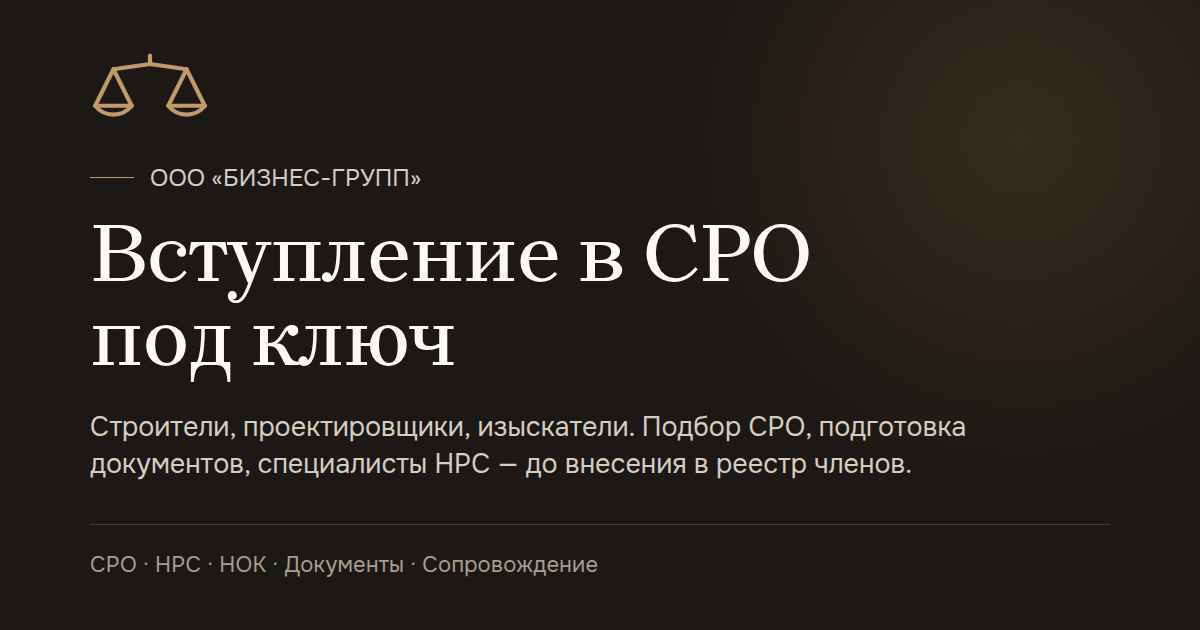
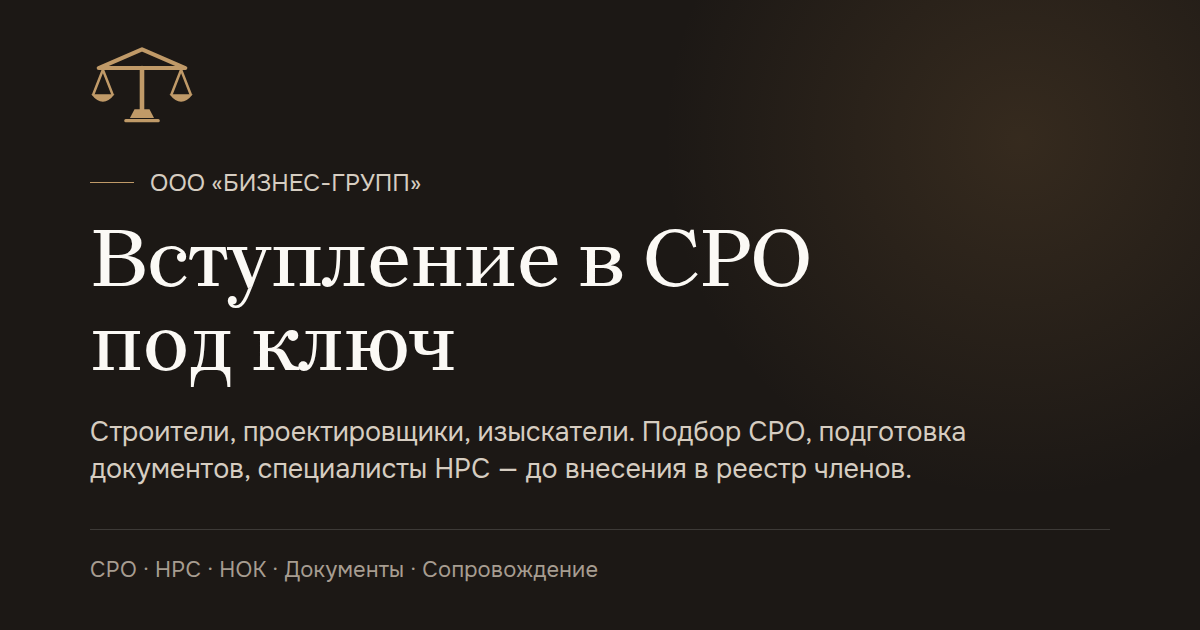
sro-site: знак — весы под фронтоном; опись документов подсвечивается
- Новый знак компании (выбор заказчика из четырёх вариантов): коромысло
  весов — треугольник фронтона, закон и стройка в одном знаке. Шапка,
  подвал, «О нас», 404, значок вкладки, иконка iOS и og.png.
- Раздел «Документы»: строка описи подсвечивается тёплым листом и латунным
  номером — при наведении на компьютере, при прохождении середины экрана
  на телефоне. Ссылкой не является.
- Висячие предлоги в тексте раздела.

Проверки: test-site.mjs 907/0, test-hero-contrast.mjs 235 замеров, 0 ниже нормы.

Claude-Session: https://claude.ai/code/session_01Jy1HN4j6vKaVcYcrR4jjs7

diff --git a/sro-site/src/components/Documents.tsx b/sro-site/src/components/Documents.tsx
@@ -1,4 +1,5 @@
 import { IMAGES } from '../content/images'
+import { nbsp } from '../lib/typo'
 import { ButtonLink } from './ui/Button'
 import { Figure } from './ui/Figure'
 import { Reveal } from './ui/Reveal'
@@ -22,8 +23,9 @@ export function Documents() {
           <SectionHeading eyebrow="Документы" title="Подготовлю пакет документов для вступления в СРО" />
           <Reveal delay={120}>
             <p className="mt-7 text-lg leading-relaxed text-neutral-600">
-              Соберу комплект под требования конкретной СРО и проверю каждый документ до
-              подачи — чтобы снизить риск замечаний и возвратов.
+              {nbsp(
+                'Соберу комплект под требования конкретной СРО и проверю каждый документ до подачи — чтобы снизить риск замечаний и возвратов.',
+              )}
             </p>
             <ButtonLink href="#contacts" size="lg" arrow className="mt-9">
               Проверить мои документы
@@ -33,21 +35,24 @@ export function Documents() {
         </div>
         {/* Перечень — строками с тонкими линейками, как опись в деле, а не
             галочками в карточке: галочки означают «сделано», а это список
-            того, что войдёт в пакет. */}
+            того, что войдёт в пакет.
+            Строка подсвечивается (.doc-row в index.css), но это не ссылка:
+            на компьютере — при наведении, на телефоне — когда проходит
+            середину экрана, ведь наведения там нет. */}
         <div className="lg:pt-24">
           <Reveal>
             <p className="text-sm text-neutral-600">Что войдёт в пакет</p>
           </Reveal>
           <ol className="mt-5 border-t border-neutral-300">
             {DOCUMENTS.map((doc, index) => (
-              <li key={doc.title} className="border-b border-neutral-300">
+              <li key={doc.title} className="doc-row border-b border-neutral-300">
                 <Reveal delay={index * 60} className="grid grid-cols-[2.5rem_minmax(0,1fr)] gap-2 py-5">
-                  <span className="pt-0.5 text-sm tabular-nums text-neutral-500">
+                  <span className="doc-num pt-0.5 text-sm tabular-nums text-neutral-500">
                     {String(index + 1).padStart(2, '0')}
                   </span>
-                  <p className="text-neutral-950">
+                  <p className="doc-text text-neutral-950">
                     <span className="font-medium">{doc.title}</span>
-                    <span className="text-neutral-600"> — {doc.text}</span>
+                    <span className="text-neutral-600"> — {nbsp(doc.text)}</span>
                   </p>
                 </Reveal>
               </li>

diff --git a/sro-site/src/components/illustrations.tsx b/sro-site/src/components/illustrations.tsx
@@ -6,33 +6,34 @@
 // истории git, если оформление вернётся к линейной графике.
 type Props = { className?: string; 'aria-hidden'?: boolean | 'true' | 'false' }
 
-// Знак в шапке: весы Фемиды. Пропорции сняты с гравюры Раймонди (исходник —
-// assets-src/themis-source.jpg; на сайте гравюры с 24.09.2026 нет) (размах коромысла принят за 1: чаша 0,50, подвес 0,48,
-// подъём центра 0,07) — но не обводка: штрих гравюры составляет около 1%
-// ширины объекта, а значку на 20-24px нужно примерно 5%, поэтому линии здесь
-// собственные. Пропорция бокса 46x26 — родная для весов, отсюда и широкий
-// плоский силуэт.
+// Знак компании: весы под фронтоном (с 25.09.2026, выбор заказчика из четырёх
+// вариантов). Коромысло весов — треугольник фронтона: это и фронтон здания
+// суда, и кровля дома, то есть закон и стройка — ровно то, чем занимается
+// компания. Толстое и тонкое, как у гравюры: фронтон, колонна и чаши плотные,
+// подвесы тоньше. Толщины подобраны под высоту 24–32px: тоньше 1,4 подвесы
+// на такой высоте пропадают.
+//
+// Те же координаты — в public/favicon.svg, public/404.html
+// и scripts/build-og.mjs: меняете знак — меняйте во всех четырёх.
+// Прежний знак (весы без колонны, viewBox 0 0 46 26) — в истории git.
 export function ScalesMark({ className = '' }: Props) {
   return (
     <svg
       className={className}
       aria-hidden="true"
       xmlns="http://www.w3.org/2000/svg"
-      viewBox="0 0 46 26"
-      fill="none"
+      viewBox="-1 2 50 37.4"
+      fill="currentColor"
       stroke="currentColor"
-      strokeWidth="2"
       strokeLinecap="round"
       strokeLinejoin="round"
     >
-      <path d="M23 1.8V5" />
-      <path d="M8.98 7 23 5l14.04 2" />
-      <path d="M8.98 7 1.99 21M8.98 7l6.99 14" />
-      <path d="M1.99 21a8.9 8.9 0 0 0 13.98 0" />
-      <path d="M1.99 21h13.98" />
-      <path d="M37.02 7 30.03 21M37.02 7l6.99 14" />
-      <path d="M30.03 21a8.9 8.9 0 0 0 13.98 0" />
-      <path d="M30.03 21h13.98" />
+      <path d="M3.2 12.6 24 3.6l20.8 9Z" fill="none" strokeWidth="2.2" />
+      <path d="M24 12.6v20" fill="none" strokeWidth="2.4" />
+      <path d="M5.2 13.4.6 25.2m4.6-11.8 4.6 11.8m33-11.8-4.6 11.8m4.6-11.8 4.6 11.8" fill="none" strokeWidth="1.4" />
+      <path d="M-.4 25.2h11.2q-5.6 7.2-11.2 0Zm37.6 0h11.2q-5.6 7.2-11.2 0Z" stroke="none" />
+      <path d="M20.4 32.4h7.2l2.2 4.2H18.2Z" stroke="none" />
+      <path d="M16.2 37.9h15.6" fill="none" strokeWidth="1.6" />
     </svg>
   )
 }

diff --git a/sro-site/src/index.css b/sro-site/src/index.css
@@ -120,6 +120,91 @@
   }
 }
 
+/* Опись документов: строка подсвечивается тёплым листом, номер становится
+   латунным, текст чуть сдвигается. Это не ссылка — курсор обычный. Наведение
+   только там, где оно есть (hover: hover): на телефоне «липкое» наведение
+   после касания оставляло бы строку подсвеченной. На телефоне строка
+   загорается, когда проходит середину экрана, — тоже без скриптов. */
+.doc-row {
+  position: relative;
+  isolation: isolate;
+}
+.doc-row::before {
+  content: '';
+  position: absolute;
+  inset: 0.25rem -0.75rem;
+  z-index: -1;
+  border-radius: 1rem;
+  background: theme('colors.accent.50');
+  opacity: 0;
+  transform: scaleX(0.97);
+  transition:
+    opacity 0.7s cubic-bezier(0.22, 1, 0.36, 1),
+    transform 0.7s cubic-bezier(0.22, 1, 0.36, 1);
+}
+.doc-row .doc-num {
+  transition: color 0.7s cubic-bezier(0.22, 1, 0.36, 1);
+}
+.doc-row .doc-text {
+  transition: transform 0.7s cubic-bezier(0.22, 1, 0.36, 1);
+}
+@media (hover: hover) {
+  .doc-row:hover::before {
+    opacity: 1;
+    transform: none;
+  }
+  .doc-row:hover .doc-num {
+    color: theme('colors.accent.600');
+  }
+  .doc-row:hover .doc-text {
+    transform: translateX(0.25rem);
+  }
+}
+@supports (animation-timeline: view()) {
+  @media (hover: none) and (prefers-reduced-motion: no-preference) {
+    .doc-row::before,
+    .doc-row .doc-num {
+      animation-timing-function: linear;
+      animation-fill-mode: both;
+      animation-timeline: view();
+      animation-range: cover 38% cover 62%;
+    }
+    .doc-row::before {
+      animation-name: doc-glow;
+    }
+    .doc-row .doc-num {
+      animation-name: doc-num;
+    }
+  }
+}
+@keyframes doc-glow {
+  0%,
+  100% {
+    opacity: 0;
+    transform: scaleX(0.97);
+  }
+  50% {
+    opacity: 1;
+    transform: none;
+  }
+}
+@keyframes doc-num {
+  0%,
+  100% {
+    color: theme('colors.neutral.500');
+  }
+  50% {
+    color: theme('colors.accent.600');
+  }
+}
+@media (prefers-reduced-motion: reduce) {
+  .doc-row::before,
+  .doc-row .doc-num,
+  .doc-row .doc-text {
+    transition: none;
+  }
+}
+
 /* Движение по прокрутке — приём со страниц Apple: кадр шапки чуть
    приближается, пока страница уходит вверх, фотография раздела отъезжает
    из приближения, пока въезжает в экран. Только CSS (scroll-driven

diff --git a/sro-site/public/404.html b/sro-site/public/404.html
@@ -19,7 +19,7 @@
         font-family:ui-sans-serif,system-ui,-apple-system,'Segoe UI',Roboto,sans-serif;
         -webkit-font-smoothing:antialiased;line-height:1.5}
       main{position:relative;z-index:1;max-width:640px;width:100%}
-      .mark{width:88px;height:auto;color:#D2B186}
+      .mark{width:72px;height:auto;color:#D2B186}
       .code{margin-top:28px;font-size:15px;color:#A79D91;display:flex;align-items:center;gap:12px}
       .code::before{content:'';width:32px;height:1px;background:#D2B186}
       h1{margin-top:14px;font-family:Georgia,'Times New Roman',serif;font-weight:500;
@@ -40,13 +40,15 @@
   </head>
   <body>
     <main>
-      <!-- Тот же знак весов, что в шапке сайта. -->
-      <svg class="mark" viewBox="0 0 46 26" fill="none" stroke="currentColor" stroke-width="2"
+      <!-- Тот же знак, что в шапке сайта (ScalesMark): весы под фронтоном. -->
+      <svg class="mark" viewBox="-1 2 50 37.4" fill="currentColor" stroke="currentColor"
         stroke-linecap="round" stroke-linejoin="round" aria-hidden="true">
-        <path d="M23 1.8V5" /><path d="M8.98 7 23 5l14.04 2" />
-        <path d="M8.98 7 1.99 21M8.98 7l6.99 14" /><path d="M1.99 21a8.9 8.9 0 0 0 13.98 0" />
-        <path d="M1.99 21h13.98" /><path d="M37.02 7 30.03 21M37.02 7l6.99 14" />
-        <path d="M30.03 21a8.9 8.9 0 0 0 13.98 0" /><path d="M30.03 21h13.98" />
+        <path d="M3.2 12.6 24 3.6l20.8 9Z" fill="none" stroke-width="2.2" />
+        <path d="M24 12.6v20" fill="none" stroke-width="2.4" />
+        <path d="M5.2 13.4.6 25.2m4.6-11.8 4.6 11.8m33-11.8-4.6 11.8m4.6-11.8 4.6 11.8" fill="none" stroke-width="1.4" />
+        <path d="M-.4 25.2h11.2q-5.6 7.2-11.2 0Zm37.6 0h11.2q-5.6 7.2-11.2 0Z" stroke="none" />
+        <path d="M20.4 32.4h7.2l2.2 4.2H18.2Z" stroke="none" />
+        <path d="M16.2 37.9h15.6" fill="none" stroke-width="1.6" />
       </svg>
       <p class="code">Ошибка 404</p>
       <h1>Такой страницы нет</h1>

diff --git a/sro-site/src/components/Header.tsx b/sro-site/src/components/Header.tsx
@@ -169,7 +169,7 @@ export function Header() {
             и рвалось по дефису: «БИЗНЕС- / ГРУПП». Ниже 360px кегль и зазоры
             на ступень меньше, а перенос внутри имени запрещён. */}
         <a href={home()} className="flex min-w-0 items-center gap-2 min-[360px]:gap-2.5">
-          <ScalesMark className="h-5 w-auto shrink-0 text-accent-600 min-[360px]:h-[22px]" />
+          <ScalesMark className="h-6 w-auto shrink-0 text-accent-600 min-[360px]:h-7" />
           <span className="flex flex-col leading-tight">
             <span className="whitespace-nowrap text-[13px] font-bold tracking-tight text-neutral-950 min-[360px]:text-[15px]">{CONTACTS.brand}</span>
             {/* neutral-600, а не 500: тёплая нейтральная шкала темнее прежней серой

diff --git a/sro-site/src/components/Footer.tsx b/sro-site/src/components/Footer.tsx
@@ -51,7 +51,7 @@ export function Footer() {
         <div className="grid gap-12 sm:grid-cols-2 lg:grid-cols-[1.3fr_0.9fr_1fr_0.8fr] lg:gap-10">
           <div>
             <div className="flex items-center gap-3">
-              <ScalesMark className="h-6 w-auto shrink-0 text-accent-300" />
+              <ScalesMark className="h-8 w-auto shrink-0 text-accent-300" />
               <span className="font-display text-[1.45rem] font-medium leading-none text-neutral-50">
                 {CONTACTS.brand}
               </span>

diff --git a/sro-site/src/components/AboutExpert.tsx b/sro-site/src/components/AboutExpert.tsx
@@ -60,7 +60,7 @@ export function AboutExpert() {
               aria-hidden="true"
             />
             <div className="relative">
-              <ScalesMark className="h-8 w-auto text-accent-300" aria-hidden="true" />
+              <ScalesMark className="h-10 w-auto text-accent-300" aria-hidden="true" />
               <p className="mt-6 font-display text-[1.7rem] font-medium leading-tight">
                 {REQUISITES.legalName}
               </p>

diff --git a/sro-site/README.md b/sro-site/README.md
@@ -929,3 +929,21 @@ git, если форма вернётся.
 
 Картинка для мессенджеров (`og.png`) и значок сайта перерисованы в той же
 палитре: латунные весы на графите.
+
+**Знак компании — весы под фронтоном (25.09.2026).** Заказчик попросил
+знак красивее прежнего: прежний был простыми весами без колонны, почти
+стандартным значком. Нарисованы четыре варианта (весы с колонной, печать
+с монограммой «БГ», медальон, весы под фронтоном) и показаны в шапке,
+в подвале, на вкладке браузера и крупно; заказчик выбрал фронтон.
+Коромысло весов — треугольник фронтона: и фронтон здания суда, и кровля
+дома — закон и стройка в одном знаке. Знак живёт в четырёх местах
+с одними координатами: `ScalesMark` в `illustrations.tsx`,
+`public/favicon.svg`, `public/404.html` и `scripts/build-og.mjs`.
+Меняете знак — меняйте во всех четырёх и пересобирайте
+`build-icons.mjs` и `build-og.mjs`.
+
+**Опись документов подсвечивается, но не кликается.** Строка раздела
+«Документы» при наведении ложится на тёплый лист, номер становится
+латунным (`.doc-row` в `index.css`). Наведение включено только там, где
+оно есть (`hover: hover`); на телефоне строка загорается, когда проходит
+середину экрана, — без скриптов, на `animation-timeline: view()`.

diff --git a/CLAUDE.md b/CLAUDE.md
@@ -31,6 +31,8 @@
   на страницы услуг, у внутренних страниц — оглавление «На этой странице» в шапке и
   `PageExtras.tsx` («Сколько стоит» без цифр и «Услуги по теме»). Движение по прокрутке —
   только CSS (`.scroll-drift`, `.scroll-settle`), сайт от него не тяжелеет.
+  Знак компании — весы под фронтоном (выбор заказчика 25.09.2026), одни координаты
+  в четырёх местах: `ScalesMark`, `favicon.svg`, `404.html`, `build-og.mjs`.
   Контраст надписей поверх фотографий мерится по пикселям (`scripts/test-hero-contrast.mjs`),
   сайт целиком — `scripts/test-site.mjs`. Ключевое правило: никаких выдуманных фактов,
   цифр, цен и сроков. Инструкции — `sro-site/README.md`.
